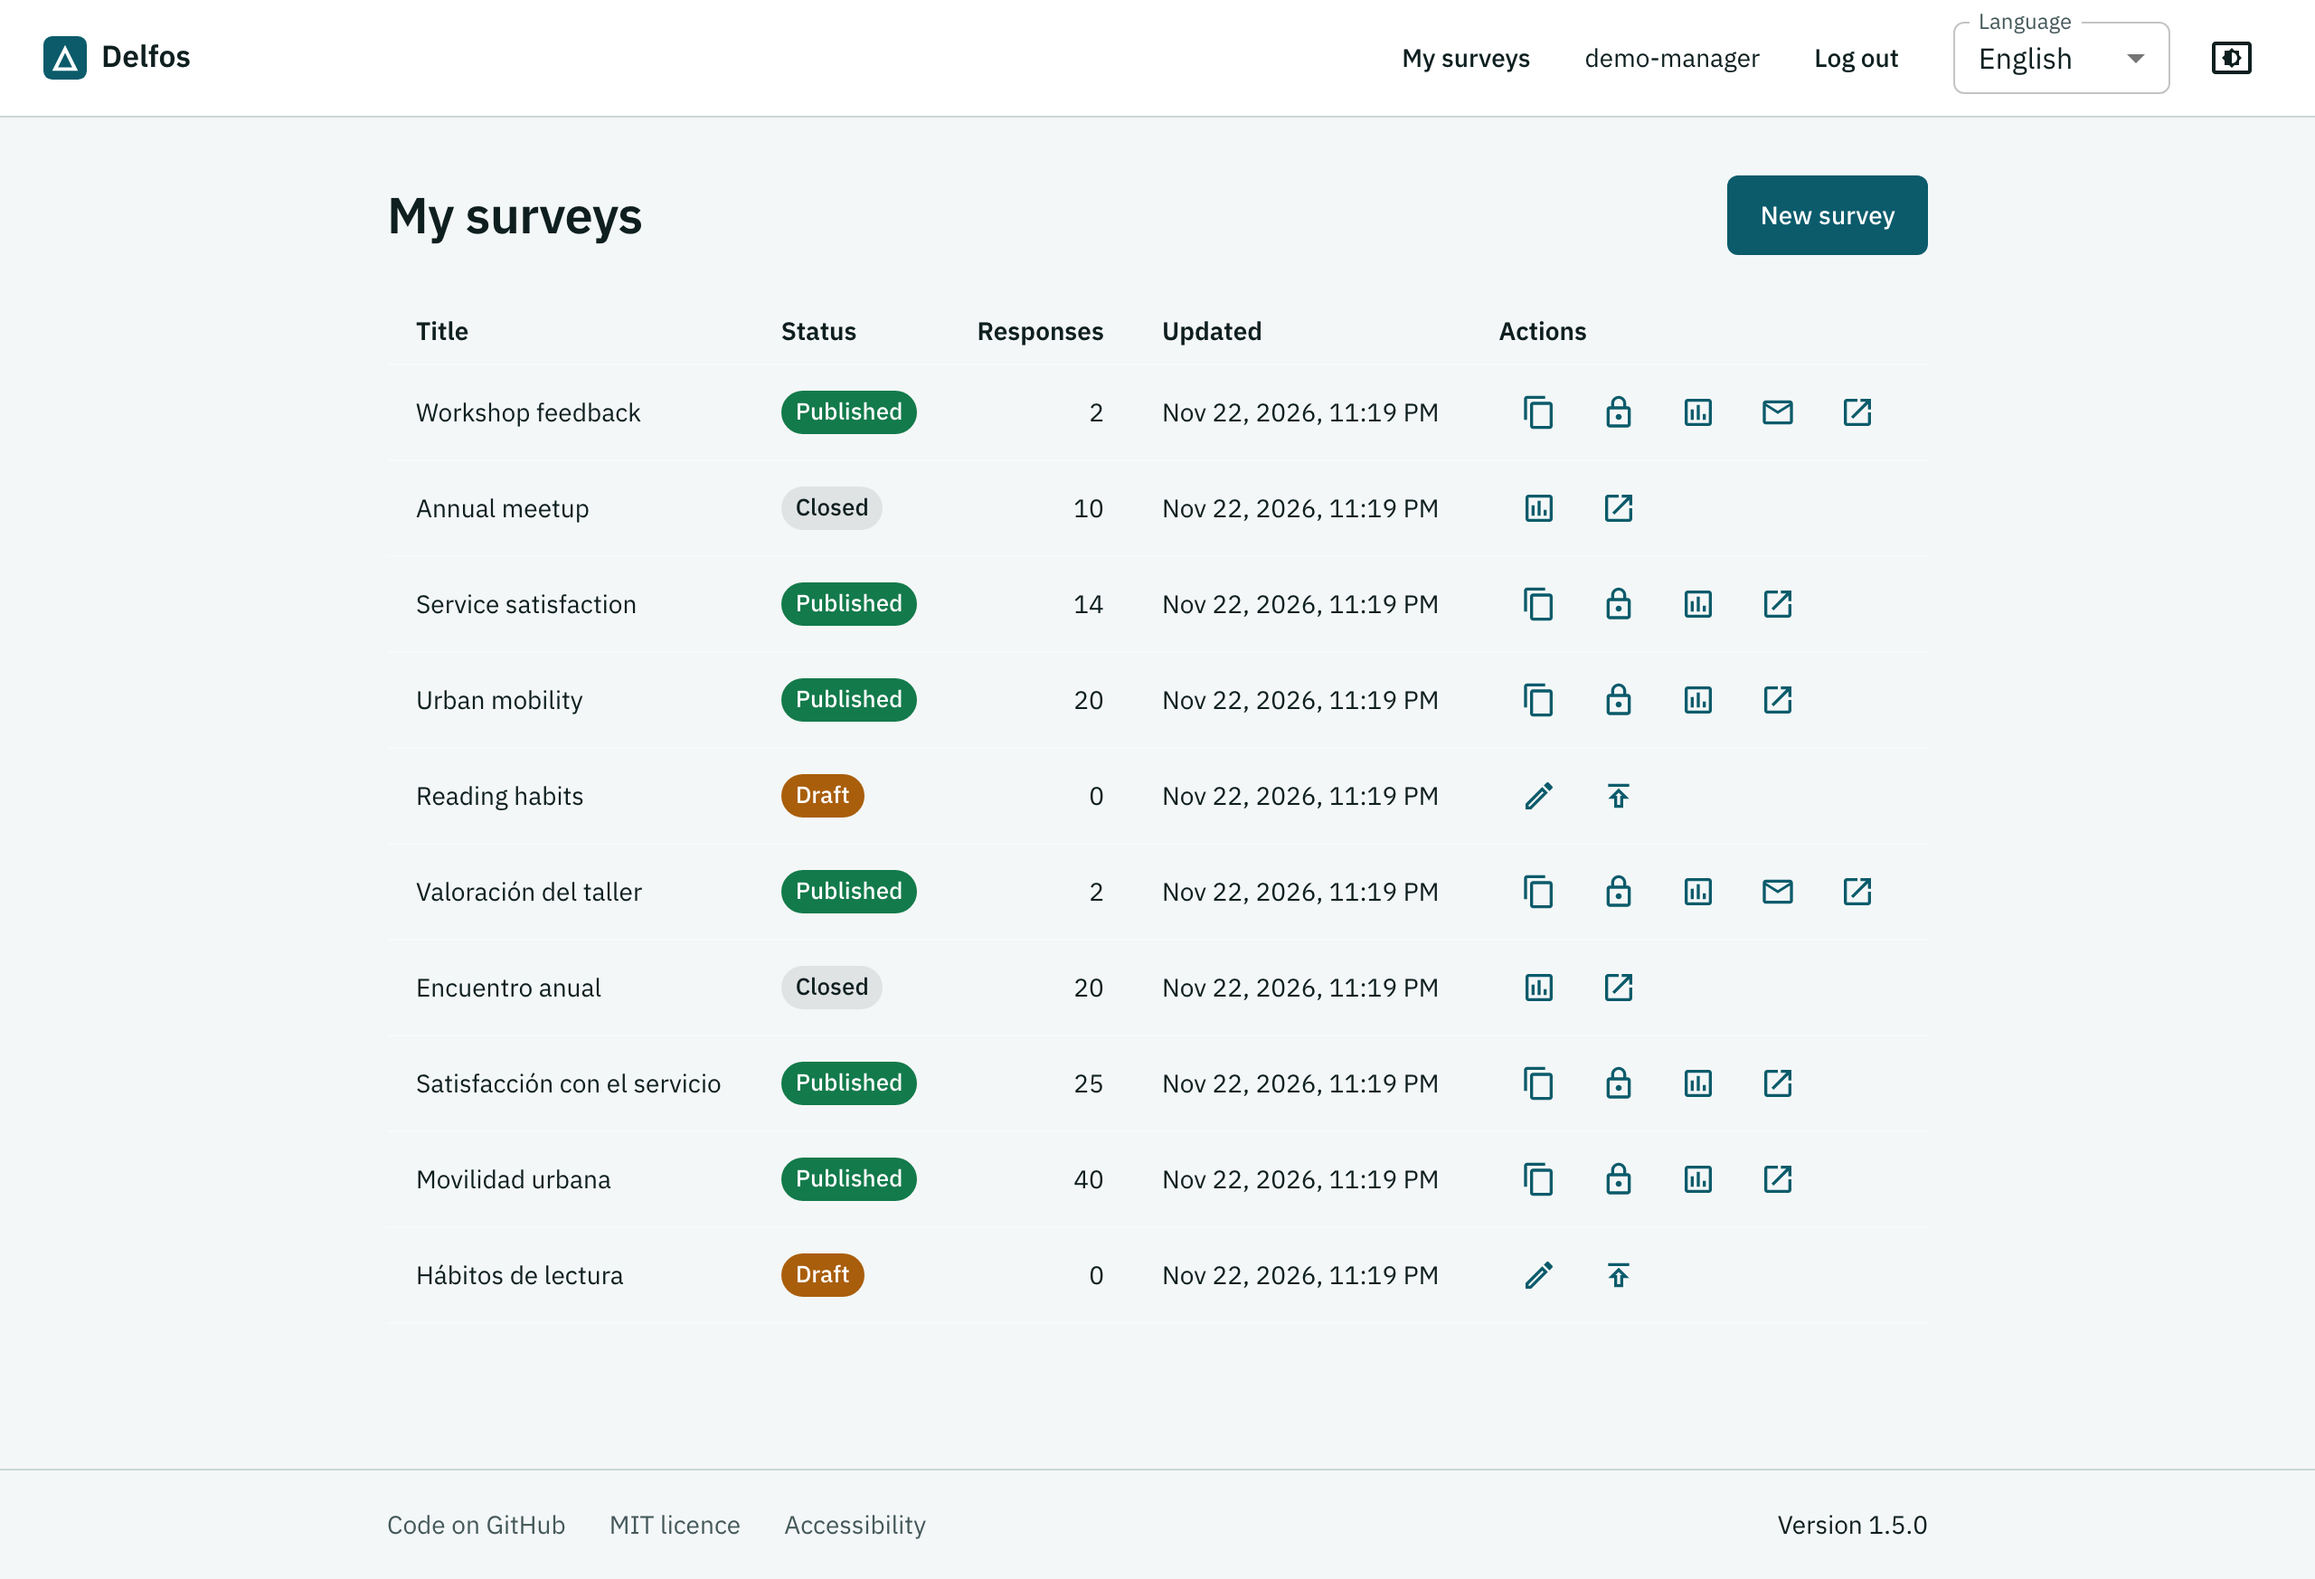
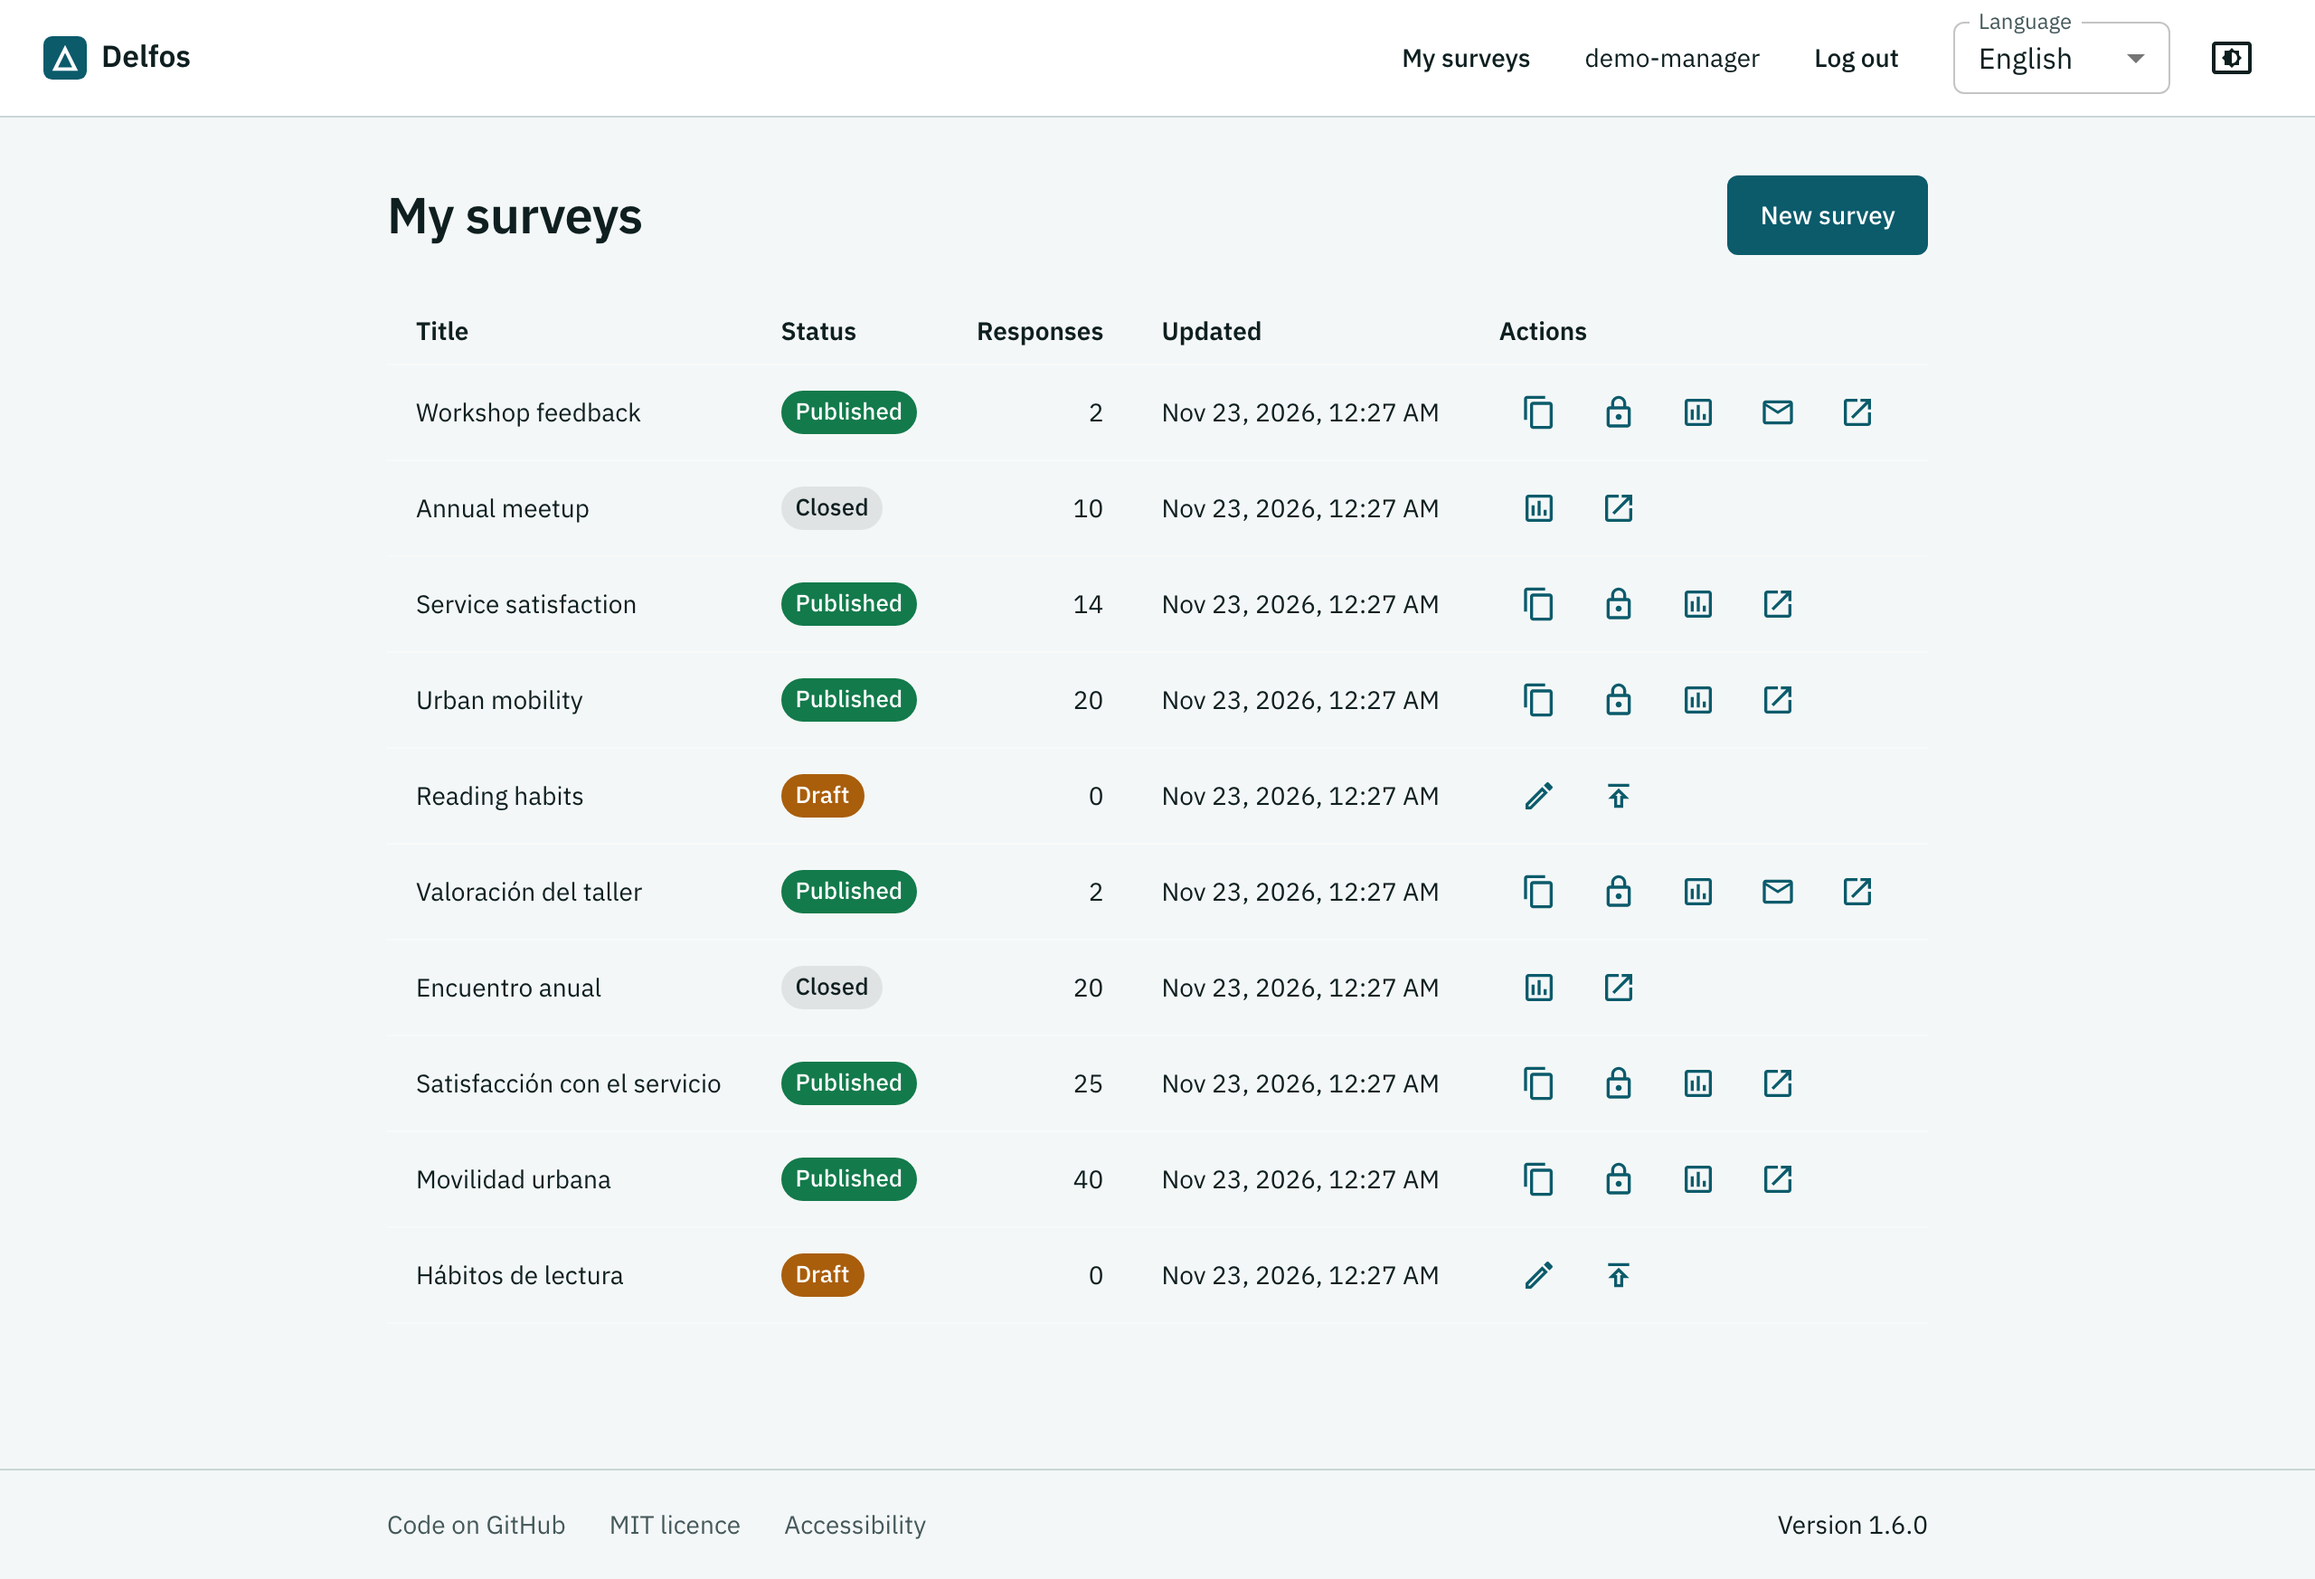
fix(web): theme the link back to the surveys and punctuate the draft note (#101)
## What changes

The "My surveys" link above the title of the results, the editor and the
invitations is a themed link (`ParentLink`, one component for the three
pages): the primary colour of the scheme, underlined on hover. The note
under the editor's title ends its first sentence with a full stop before
the second one.

## Which failure it prevents or which capability it adds

The link was a `Typography` rendered as an anchor, so it took the
browser's default blue, the same in both schemes, and read poorly on the
dark one: the only unthemed colour on the site, visible in the README
picture of the results. The editor's note read "Draft of version 3
Version 2 is published…", two sentences run together.

## Which test covers it

`npm run check` and the journey of `e2e/journey.spec.ts` (axe on the
results page). The three pages were looked at in both schemes.

## What is deliberately left out

A breadcrumb trail: every manager's page sits one level under the
surveys list, so one link is enough. The README picture of the results
is taken again with the next refresh of the media, which this fix is
for.

## Which document changes with it

None.

diff --git a/web/src/features/editor/EditorPage.tsx b/web/src/features/editor/EditorPage.tsx
@@ -16,6 +16,7 @@ import { Link, useNavigate, useParams } from 'react-router'
 import { api } from '../../api/client'
 import type { FieldError, Problem, Schemas, SurveyVersion } from '../../api/types'
 import { usePageTitle } from '../../app/usePageTitle'
+import { ParentLink } from '../../components/ParentLink'
 import {
   QUESTION_TYPES,
   draftReducer,
@@ -213,14 +214,9 @@ function DraftEditor({ surveyId, survey, draft }: EditorProps) {
   return (
     <Stack spacing={3}>
       <Box>
-        <Typography
-          variant="overline"
-          component={Link}
-          to="/surveys"
-          sx={{ textDecoration: 'none' }}
-        >
+        <ParentLink to="/surveys">
           <FormattedMessage id="app.nav.surveys" defaultMessage="My surveys" />
-        </Typography>
+        </ParentLink>
         <Typography variant="h4" component="h1" lang={survey.language}>
           {survey.title}
         </Typography>
@@ -232,7 +228,7 @@ function DraftEditor({ surveyId, survey, draft }: EditorProps) {
           />
           {survey.publishedVersionNumber !== undefined && (
             <>
-              {' '}
+              {'. '}
               <FormattedMessage
                 id="editor.supersedes"
                 defaultMessage="Version {published} is published and keeps receiving responses; publishing this draft makes it version {number}."

diff --git a/web/src/features/invitations/InvitationsPage.tsx b/web/src/features/invitations/InvitationsPage.tsx
@@ -21,10 +21,11 @@ import ContentCopyIcon from '@mui/icons-material/ContentCopy'
 import { useInfiniteQuery, useMutation, useQuery, useQueryClient } from '@tanstack/react-query'
 import { useState } from 'react'
 import { FormattedDate, FormattedMessage, useIntl } from 'react-intl'
-import { Link, useParams } from 'react-router'
+import { useParams } from 'react-router'
 import { api } from '../../api/client'
 import type { Schemas } from '../../api/types'
 import { usePageTitle } from '../../app/usePageTitle'
+import { ParentLink } from '../../components/ParentLink'
 import { PageSkeleton } from '../../components/PageSkeleton'
 
 type Invitation = Schemas['Invitation']
@@ -140,14 +141,9 @@ export function InvitationsPage() {
   return (
     <Stack spacing={3}>
       <Box>
-        <Typography
-          variant="overline"
-          component={Link}
-          to="/surveys"
-          sx={{ textDecoration: 'none' }}
-        >
+        <ParentLink to="/surveys">
           <FormattedMessage id="app.nav.surveys" defaultMessage="My surveys" />
-        </Typography>
+        </ParentLink>
         <Typography variant="h4" component="h1">
           <FormattedMessage id="invitations.title" defaultMessage="Invitations" />
         </Typography>

diff --git a/web/src/features/results/ResultsPage.tsx b/web/src/features/results/ResultsPage.tsx
@@ -11,10 +11,11 @@ import {
 import { useQuery } from '@tanstack/react-query'
 import { useState } from 'react'
 import { FormattedMessage, FormattedTime, useIntl } from 'react-intl'
-import { Link, useParams } from 'react-router'
+import { useParams } from 'react-router'
 import { api, apiBaseUrl } from '../../api/client'
 import { usePageTitle } from '../../app/usePageTitle'
 import { PageSkeleton } from '../../components/PageSkeleton'
+import { ParentLink } from '../../components/ParentLink'
 import { QuestionResultView } from './QuestionResultView'
 import { useResults, type Scope } from './useResults'
 import { useResultsEvents } from './useResultsEvents'
@@ -81,14 +82,9 @@ export function ResultsPage({
   return (
     <Stack spacing={3}>
       <Box>
-        <Typography
-          variant="overline"
-          component={Link}
-          to="/surveys"
-          sx={{ textDecoration: 'none' }}
-        >
+        <ParentLink to="/surveys">
           <FormattedMessage id="app.nav.surveys" defaultMessage="My surveys" />
-        </Typography>
+        </ParentLink>
         <Typography variant="h4" component="h1" lang={survey.data.language}>
           {survey.data.title}
         </Typography>

diff --git a/web/src/components/ParentLink.tsx b/web/src/components/ParentLink.tsx
@@ -1,0 +1,15 @@
+import { Link } from '@mui/material'
+import type { ReactNode } from 'react'
+import { Link as RouterLink } from 'react-router'
+
+/**
+ * The page above this one, as an overline over the title: the way back that a manager's page
+ * offers besides the shell. A themed link, so it reads in both schemes and underlines on hover.
+ */
+export function ParentLink({ to, children }: { to: string; children: ReactNode }) {
+  return (
+    <Link component={RouterLink} to={to} variant="overline" underline="hover">
+      {children}
+    </Link>
+  )
+}
